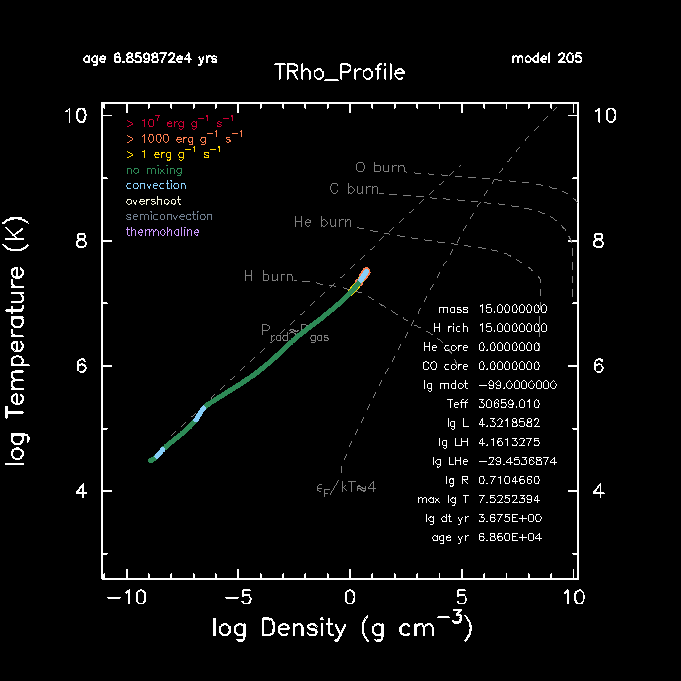
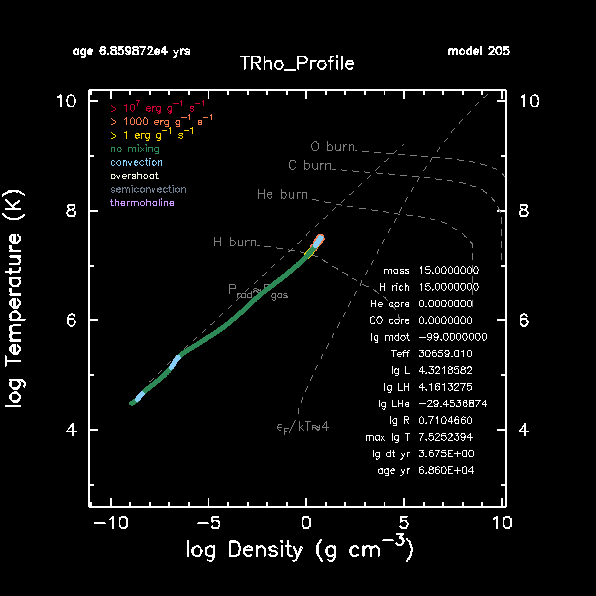
pgstar update

diff --git a/docs/Minilab1.md b/docs/Minilab1.md
@@ -27,17 +27,30 @@ For good measure, let's make sure that the standard `MESA` inlist runs
 Let it run until the `pgstar` window shows up, then terminate the run using `ctrl + c`. 
 
 <task><details>
-<summary>Task 0</summary><p>
+<summary>Task 1</summary><p>
 Copy and rename the <code>$MESA_DIR/star/work</code> directory as demonstrated above, then compile and run `MESA` to check that everything is running as it should.
 </p></details></task>
+
+If everything is running as it should (if not, ask your TA for help!) then it is now time to start modifying your `MESA` inlists. We will be using the same inlists throughout Minilab 1, Minilab 2, and the Maxilab and keep adding things to them as we go along. 
 
 As `MESA` is running, you will notice that two `pgstar` windows show up. One is an HR diagram showing the evolutionary track of the star, with its current effective temperature and luminosity indicated by a red circle. The second window shows the current internal temperature versus density profile on the star, indicating also convective and other (non-)mixing regions, where nuclear burning is taking place, etc.
 
 <img src="./images/hr_000205.png" width="500" alt="HR" > <img src="./images/trho_profile_000205.png" width="500" alt="Htrho_profileR" >
 
-Both of these `pgstar` windows are the default windows being shown in `MESA`. Depending on your laptop/desktop. These windows might appear small and difficult to read. Fortunately, `MESA` provides a variety of parameters that we can use to make changes to the default `pgstar` windows, including their sizes. 
+Both of these `pgstar` windows are the default windows being shown in `MESA`. Depending on your laptop/desktop. These windows might appear small and difficult to read. Fortunately, `MESA` provides a variety of parameters that we can use to make changes to the default `pgstar` windows, including their sizes. We can do so within the file `inlist_pgstar`. The `pgstar` documentation can be found [here](https://docs.mesastar.org/en/release-r23.05.1/reference/pgstar.html#). 
 
-If everything is running as it should (if not, ask your TA for help!) then it is now time to start modifying your `MESA` inlists. We will be using the same inlists throughout Minilab 1, Minilab 2, and the Maxilab and keep adding things to them as we go along. To begin with, we will focus on the `inlist_project` file. Usually, we want to start the evolution from the pre-main sequence, however, in an effort to save time for these labs we will instead start the evolution at the zero-age main sequence (ZAMS) and evolve the star until core hydrogen exhaustion. To do this, we have to modify both `&star_job` and `&controls`
+<task><details>
+<summary>Task 2</summary><p>
+Modify your <code>inlist_pgstar</code> file until you are satisfied with the sizes of your <code>pgstar</code> windows. Note that any changes that you make to <code>inlist_pgstar</code> and save while <code>MESA</code> is running are automatically updated on the fly.
+</p></details></task>
+
+<hint><details>
+<summary> Hint </summary><p>
+The two `pgstar` plotting windows are called `HR window` ([documentation](https://docs.mesastar.org/en/release-r23.05.1/reference/pgstar.html#hr-window)) and `TRho Profile Window` ([documentation](https://docs.mesastar.org/en/release-r23.05.1/reference/pgstar.html#trho-profile-window)). The names of the parameters that you should be varying are: `HR_win_width`, `HR_win_aspect_ratio`, `TRho_Profile_win_width`, and `TRho_Profile_win_aspect_ratio`. These are already included in `inlist_pgstar` by default.
+</p></details></hint>
+
+
+Now that the `pgstar` windows are on the right scale, we will focus on the `inlist_project` file. Usually, we want to start the evolution from the pre-main sequence, however, in an effort to save time for these labs we will instead start the evolution at the zero-age main sequence (ZAMS) and evolve the star until core hydrogen exhaustion. To do this, we have to modify both `&star_job` and `&controls`
 
 <div class="filetext-title"> inlist_project </div> 
 <div class="filetext"><p><pre class="pre-filetext">
